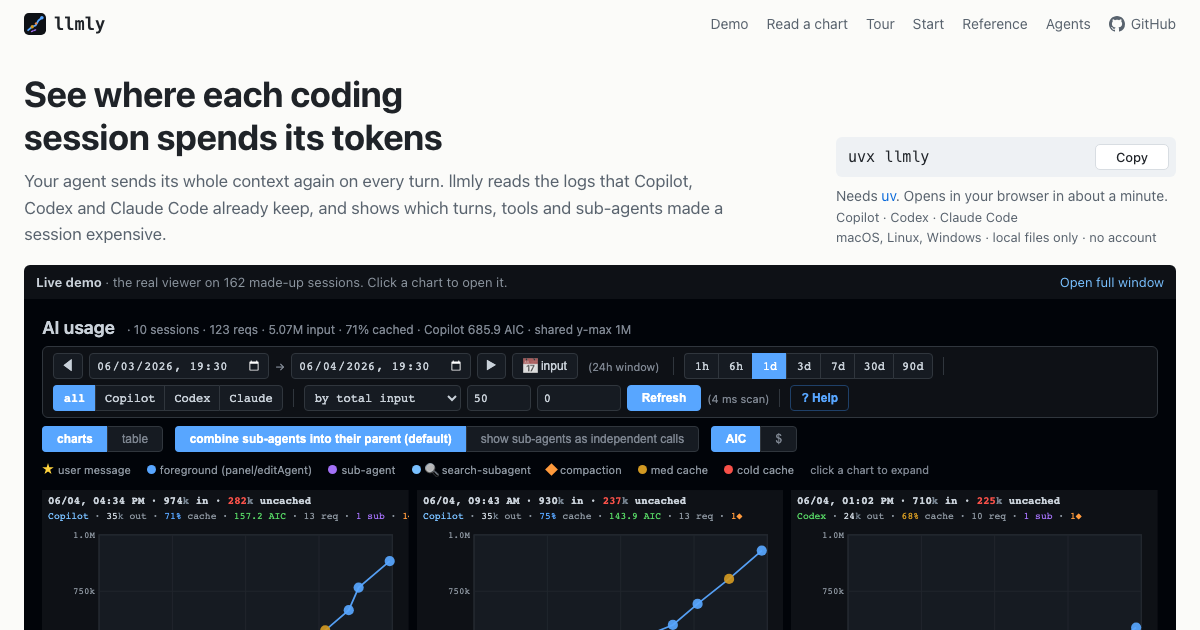
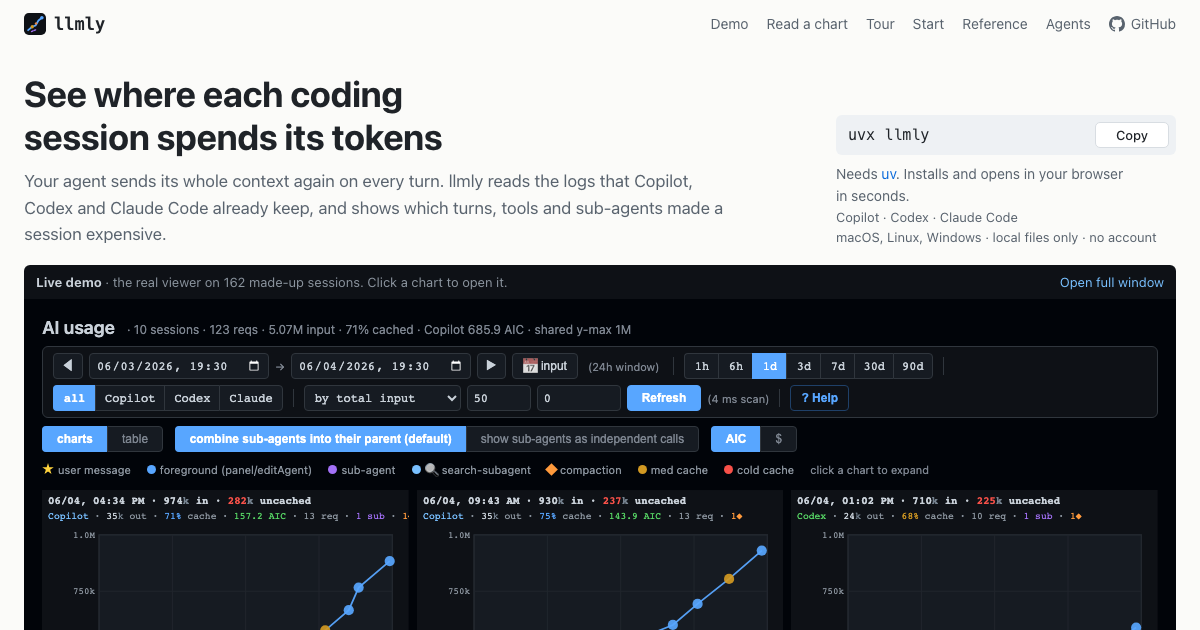
Say how long the first run takes from a timed cold install

Changed region(s): [[0.6783, 0.2111, 0.9867, 0.3317], [0.925, 0.2111, 0.9558, 0.2714]]

diff --git a/site/index.html b/site/index.html
@@ -39,7 +39,7 @@
     </div>
     <div class="try">
       <div class="cmd"><code>uvx llmly</code><button type="button" class="copy" data-copy="uvx llmly" aria-label="Copy the command uvx llmly"><span>Copy</span></button></div>
-      <p class="try-note">Needs <a href="https://docs.astral.sh/uv/">uv</a>. Opens in your browser in about a minute.</p>
+      <p class="try-note">Needs <a href="https://docs.astral.sh/uv/">uv</a>. Installs and opens in your browser in seconds.</p>
       <p class="facts">Copilot · Codex · Claude Code<br>macOS, Linux, Windows · local files only · no account</p>
     </div>
 
@@ -214,8 +214,8 @@
     <h2>Start</h2>
     <ol class="levels">
       <li>
-        <h3>Run it <span class="time">about 1 minute</span></h3>
-        <p>Needs <a href="https://docs.astral.sh/uv/">uv</a>. The first run installs Flask; later runs start at once. It opens on port 5057, or the next free port.</p>
+        <h3>Run it <span class="time">seconds</span></h3>
+        <p>Needs <a href="https://docs.astral.sh/uv/">uv</a>. The first run installs llmly and Flask, which took about a second on a fast connection. It opens on port 5057, or the next free port.</p>
         <div class="cmd"><code>uvx llmly</code><button type="button" class="copy" data-copy="uvx llmly" aria-label="Copy uvx llmly"><span>Copy</span></button></div>
       </li>
       <li>
